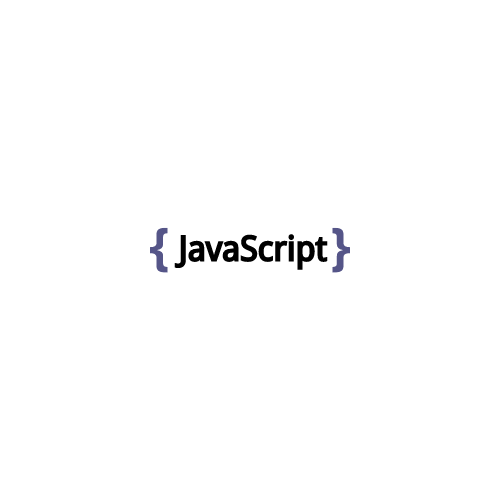
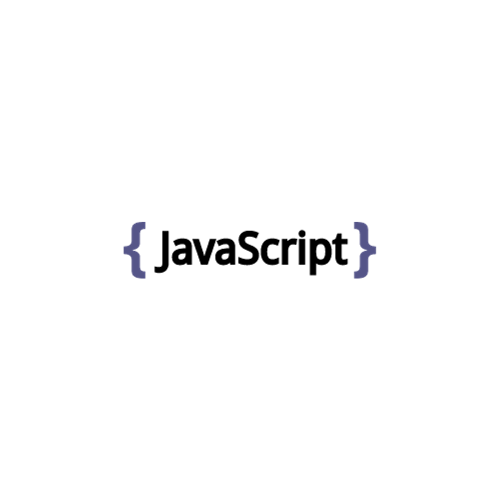
skills incompleto

Changed region(s): [[0.24, 0.42, 0.75, 0.57]]

diff --git a/index.html b/index.html
@@ -59,19 +59,29 @@
     </div>
     </section>
 
-    <section id="habilidades" class="skills">
+    <section id="habilidades" class="skills max-width">
+        <h2 class="title-skills">Habilidades</h2>
             <div class="division-skills">
-                <div class="skill1">
-                    <img src="" alt="">
+                
+                <div class="skill">
+                    <img class="logoskill" src="fotos/html.png" alt="html">
+                    <img src="fotos/namehtml.png" alt="namehtml" class="nameskill">
+                    <p>HTML é a linguagem de marcação padrão utilizada para criar e estruturar páginas web. Ele consiste em uma série de elementos (tags) que são usados para definir e organizar o conteúdo de uma página, como textos, imagens, links e outros elementos. As tags HTML fornecem instruções ao navegador sobre como exibir o conteúdo, garantindo uma apresentação consistente e estruturada das informações na web.</p>
                 </div>
-                <div class="skill2">
-
+                <div class="skill">
+                    <img class="logoskill" src="fotos/css.png" alt="css">
+                    <img src="fotos/namecss.png" alt="namecss" class="nameskill">
+                    <p>CSS é uma linguagem de estilo utilizada para controlar a apresentação visual de páginas web. Ele permite separar a estrutura do conteúdo HTML da sua apresentação visual, definindo estilos como cores, fontes, espaçamento e layout. Com o CSS, é possível criar designs atraentes e responsivos, garantindo uma experiência de usuário mais agradável e consistente em diferentes dispositivos e tamanhos de tela.</p>
                 </div>
-                <div class="skill3">
-
+                <div class="skill">
+                    <img class="logoskill" src="fotos/javascript.png" alt="java">
+                    <img src="fotos/namejava.png" alt="javacss" class="nameskill">
+                    <p>JavaScript é uma linguagem de programação de alto nível, interpretada e orientada a objetos. Amplamente utilizada no desenvolvimento web, ela permite a criação de interatividade dinâmica nas páginas. JavaScript é executado no lado do cliente, ou seja, no navegador do usuário, possibilitando a manipulação do DOM (Document Object Model) e a resposta a eventos, tornando as páginas mais dinâmicas e interativas.</p>
                 </div>
-                <div class="skill4">
-
+                <div class="skill">
+                    <img class="logoskill" src="fotos/git.png" alt="git">
+                    <img src="fotos/namegit.png" alt="namegit" class="nameskill">
+                    <p>GIT é um sistema de controle de versão distribuído amplamente utilizado no desenvolvimento de software. Ele permite que equipes de programadores colaborem de forma eficiente, rastreiem alterações no código-fonte e gerenciem diferentes versões de um projeto. Com o GIT, é possível realizar o controle preciso das alterações, facilitando a colaboração entre desenvolvedores e a manutenção do histórico completo do projeto.</p>
                 </div>
 
             </div>

diff --git a/css/habilidades.css b/css/habilidades.css
@@ -1,0 +1,50 @@
+.division-skills{
+    padding: 1.5rem;
+    display: flex;
+ 
+    justify-content: center;
+    align-items: center;
+}
+
+.division-skills img{
+
+    width: 50%;
+}
+
+
+.division-skills p{
+
+    text-align: center;
+    font-size: 1.3rem;
+}
+
+.title-skills{
+
+    text-align: center;
+}
+
+.skill {
+    display: flex;
+    flex-direction: column;
+    align-items: center;
+    margin: 2rem;
+    padding: 1.5rem;
+    background-color: whitesmoke;
+    -webkit-box-shadow: 0px 0px 8px 2px grey;
+    -moz-box-shadow: 0px 0px 8px 2px grey;
+    box-shadow: 0px 0px 8px 2px grey;
+    
+   
+}
+
+.skill p {
+    margin-top: 10px;
+}
+
+.nameskill {
+    background-color: rgba(0, 0, 0, 0.5); /* Cor de fundo mais escura (RGBA com 70% de opacidade) */
+    color: white; /* Cor do texto */
+    padding: 0.5rem; /* Espaçamento interno */
+    width: 100%; /* Ocupa 100% do espaço da div */
+    text-align: center;
+}
